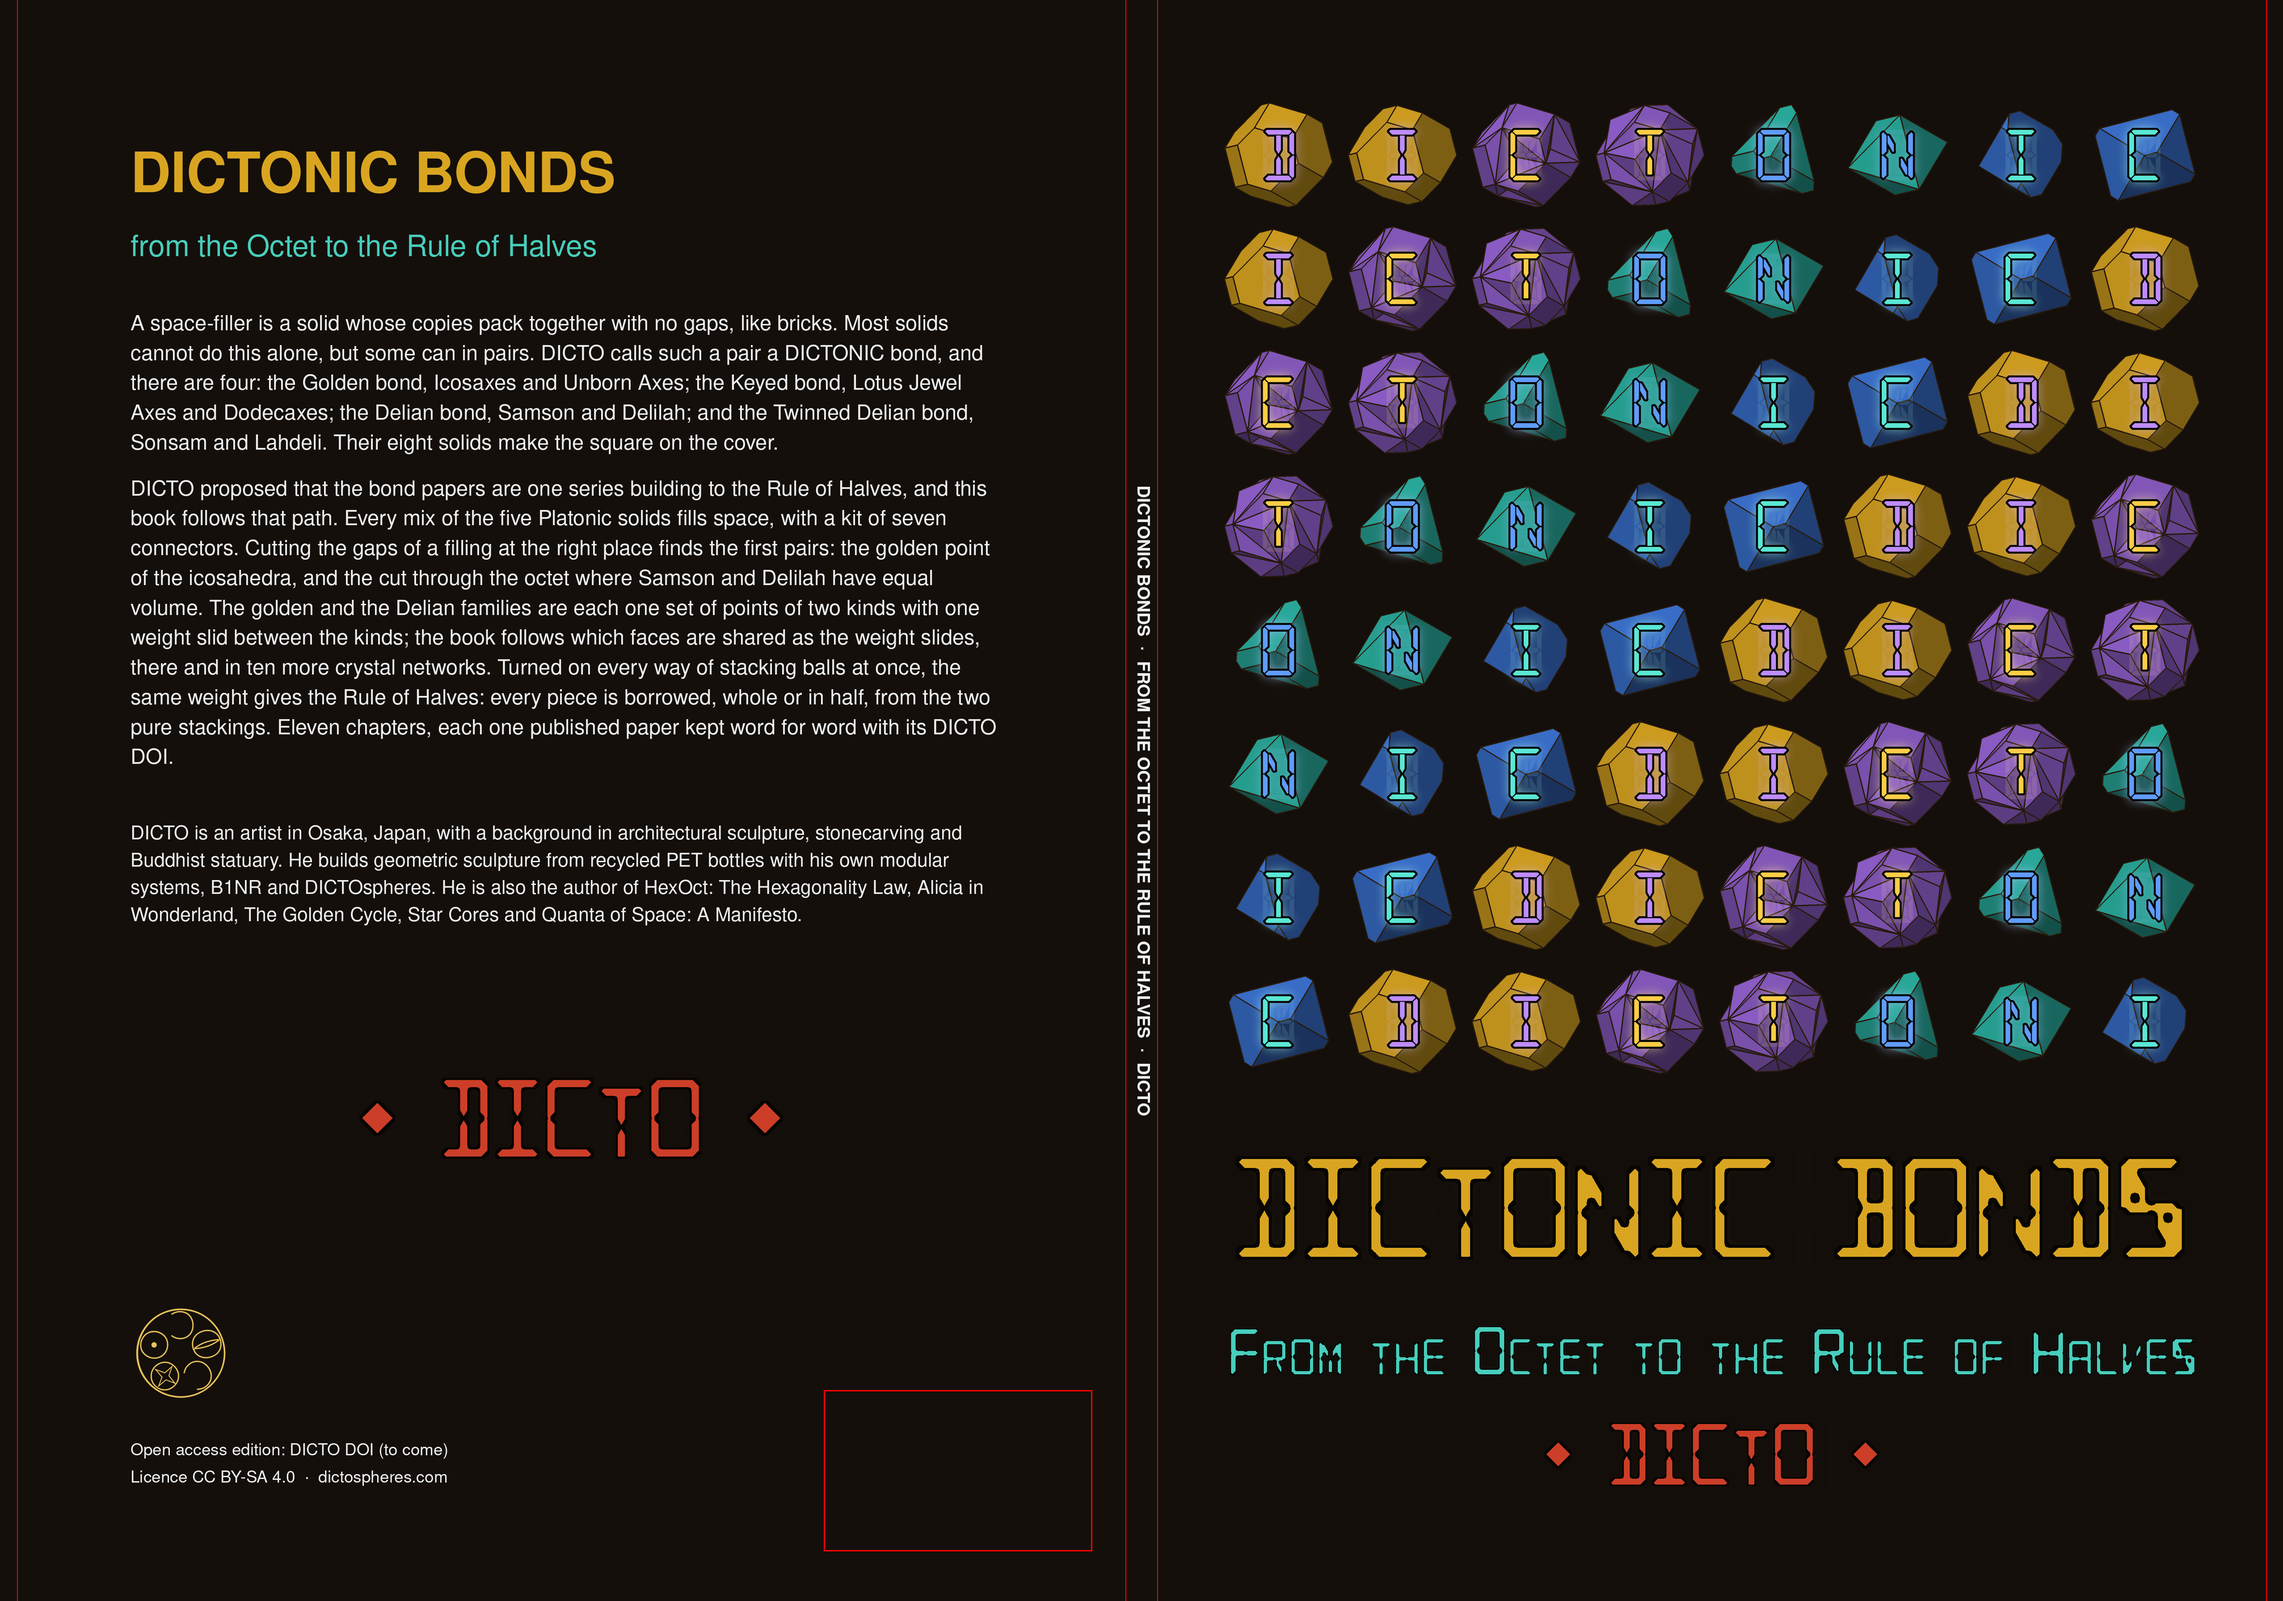
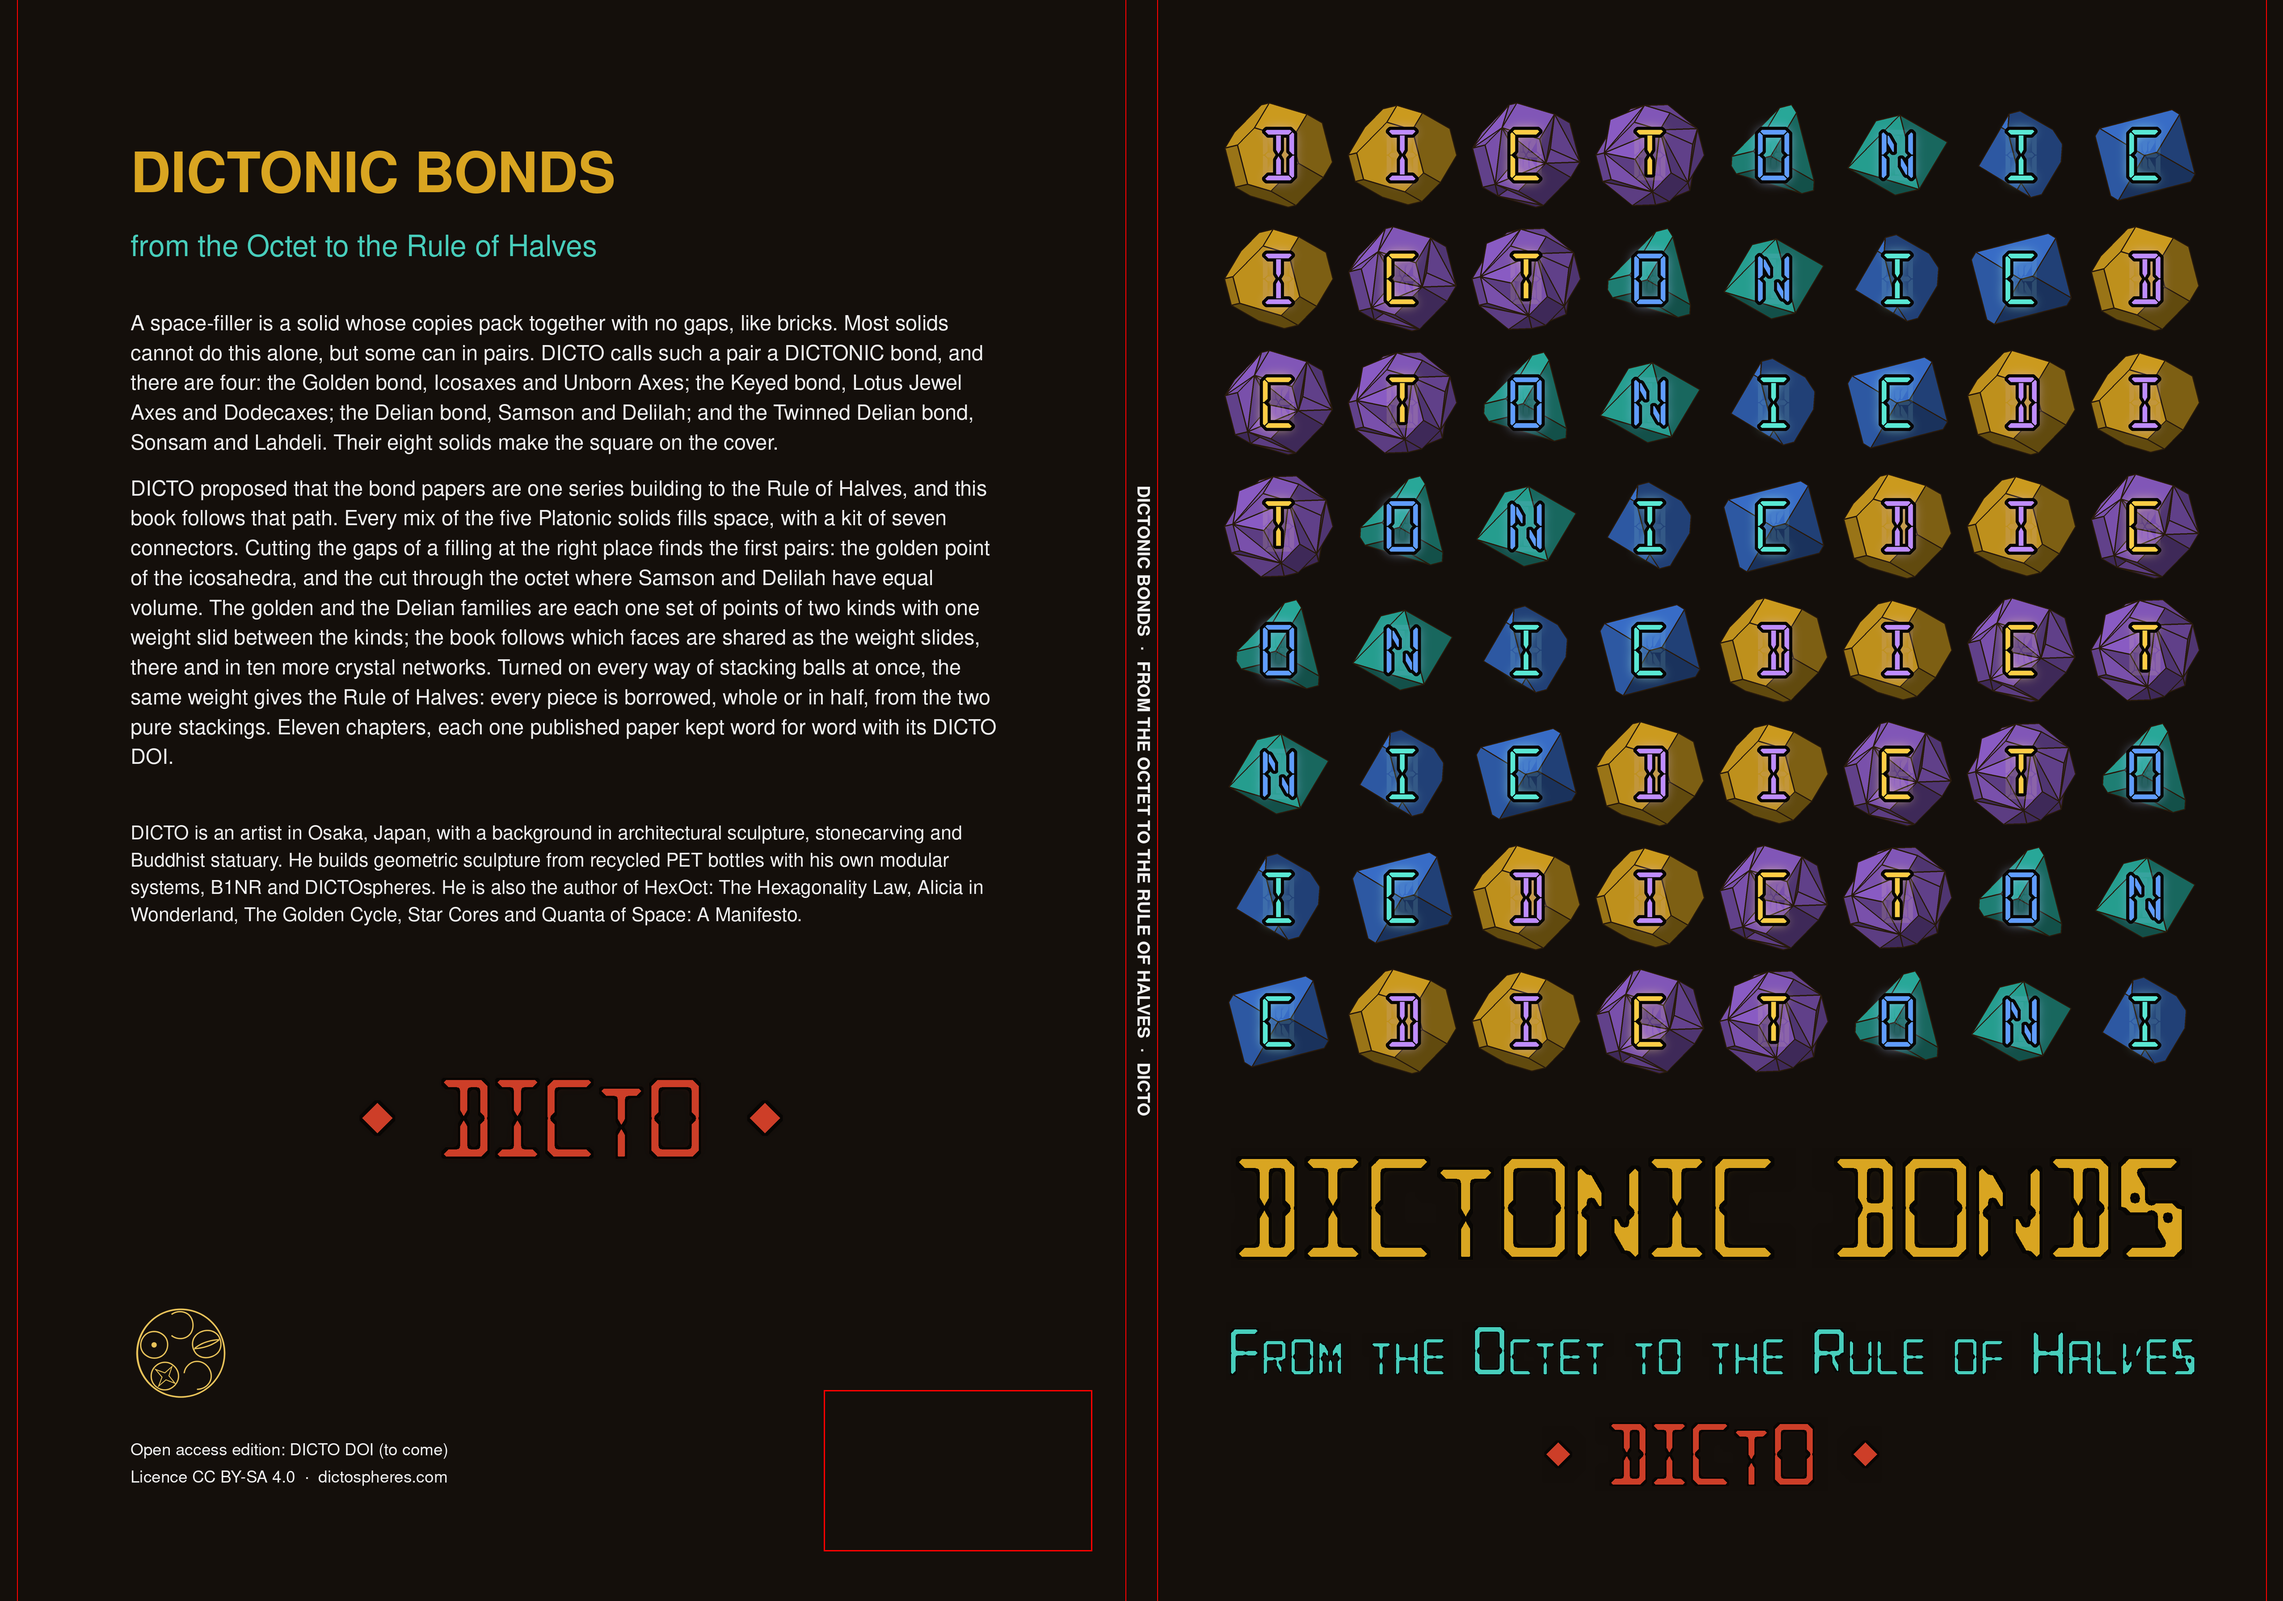
DICTONIC Bonds cover: black rim round the square's letters 1.5x wider (DICTO: slightly more black around letter outlines)

Changed region(s): [[0.6537, 0.3099, 0.6848, 0.3409], [0.5914, 0.3099, 0.6226, 0.3409]]

diff --git a/studies/2026-11-03-bonds-cover/scripts/bonds_square.py b/studies/2026-11-03-bonds-cover/scripts/bonds_square.py
@@ -94,7 +94,7 @@ for i in range(n):
 img = Image.fromarray(np.clip(img, 0, 255).astype(np.uint8))
 f = ImageFont.truetype('DSEG14Classic-Regular.ttf', int(0.047 * W))
 def carved(ch, col):   # Star Cores' carved LED letter (DICTO 10-31: opposite letter colours)
-    box = int(0.1 * W); edge = int(0.002 * W)
+    box = int(0.1 * W); edge = int(round(1.5 * int(0.002 * W)))   # DICTO 11-03 'slightly more black around letter outlines': rim 1.5x (9 -> 14 px at W = 4800)
     def lay(t, sw=0):
         m = Image.new('L', (box, box), 0); ImageDraw.Draw(m).text((box / 2, box / 2), t, font=f, fill=255, anchor='mm', stroke_width=sw, stroke_fill=255)
         return np.array(m, float) / 255

diff --git a/studies/2026-11-03-bonds-cover/README.md b/studies/2026-11-03-bonds-cover/README.md
@@ -7,7 +7,7 @@ Request (2026-11-03): the cover for DICTO's book "DICTONIC Bonds: from the Octet
 - Cyclic Latin square 8 x 8 of DICTONIC (row i, column j = position (i+j) mod 8): DICTONIC across the top and down the left; every position (piece) once in each row and column.
 - Pieces in the book's order (preface), exact corners and faces from the DICTO Solids dataset v7: D Icosaxes, I Unborn Axes (Golden bond, gold); C Lotus Jewel Axes, T Dodecaxes (Keyed bond, violet); O Samson, N Delilah (Delian bond, teal); I Sonsam, C Lahdeli (Twinned Delian bond, blue). Face counts checked (14, 14, 54, 54, 10, 8, 13, 8); winding checked; one circumradius, the squares' one pose.
 - Two pieces are not convex (dents, keys), so the pieces are drawn with a depth buffer; edges are the borders between visible face planes (~2 px at 2400 px).
-- Letters: the HexOct LED letters (DSEG14 Classic, OFL) in reciprocal colours (DICTO 11-03): each bond takes its partner bond's piece colour, brightened as the Star Cores letters: violet on gold, gold on violet, blue on teal, teal on blue. No red or orange in the square.
+- Letters: the HexOct LED letters (DSEG14 Classic, OFL) in reciprocal colours (DICTO 11-03): each bond takes its partner bond's piece colour, brightened as the Star Cores letters: violet on gold, gold on violet, blue on teal, teal on blue. No red or orange in the square. Black rim round each letter 1.5x the Star Cores width (14 px instead of 9 at the 4800 px working size; DICTO 11-03).
 - Title panel as Star Cores: DICTONIC BONDS (gold, full capitals: every letter at the large size, DICTO 11-03; back title also capitals), FROM THE OCTET TO THE RULE OF HALVES (teal, shrunk to fit: 0.0325 N against 0.040), ◆ DICTO ◆ (red). No series line (not part of a series).
 - KDP wrap: A4 trim, bleed 0.125 in, 300 dpi; spine = 105 x 0.002252 in = 0.2365 in (white paper, as the other books; check KDP's calculator before upload); spine text (105 > 79 pages). Back: blurb from the preface, author note, ◆ DICTO ◆ mark, logo, DOI line "(to come)", barcode area 2 x 1.2 in kept clear.
 - scripts/bonds_square.py <dataset solids dir>, scripts/cover_title.py, scripts/kdp_cover.py (PAGES=, GUIDES=1); run on dicto-big-brother in ~/kres-tmp/bonds-cover/scripts.
